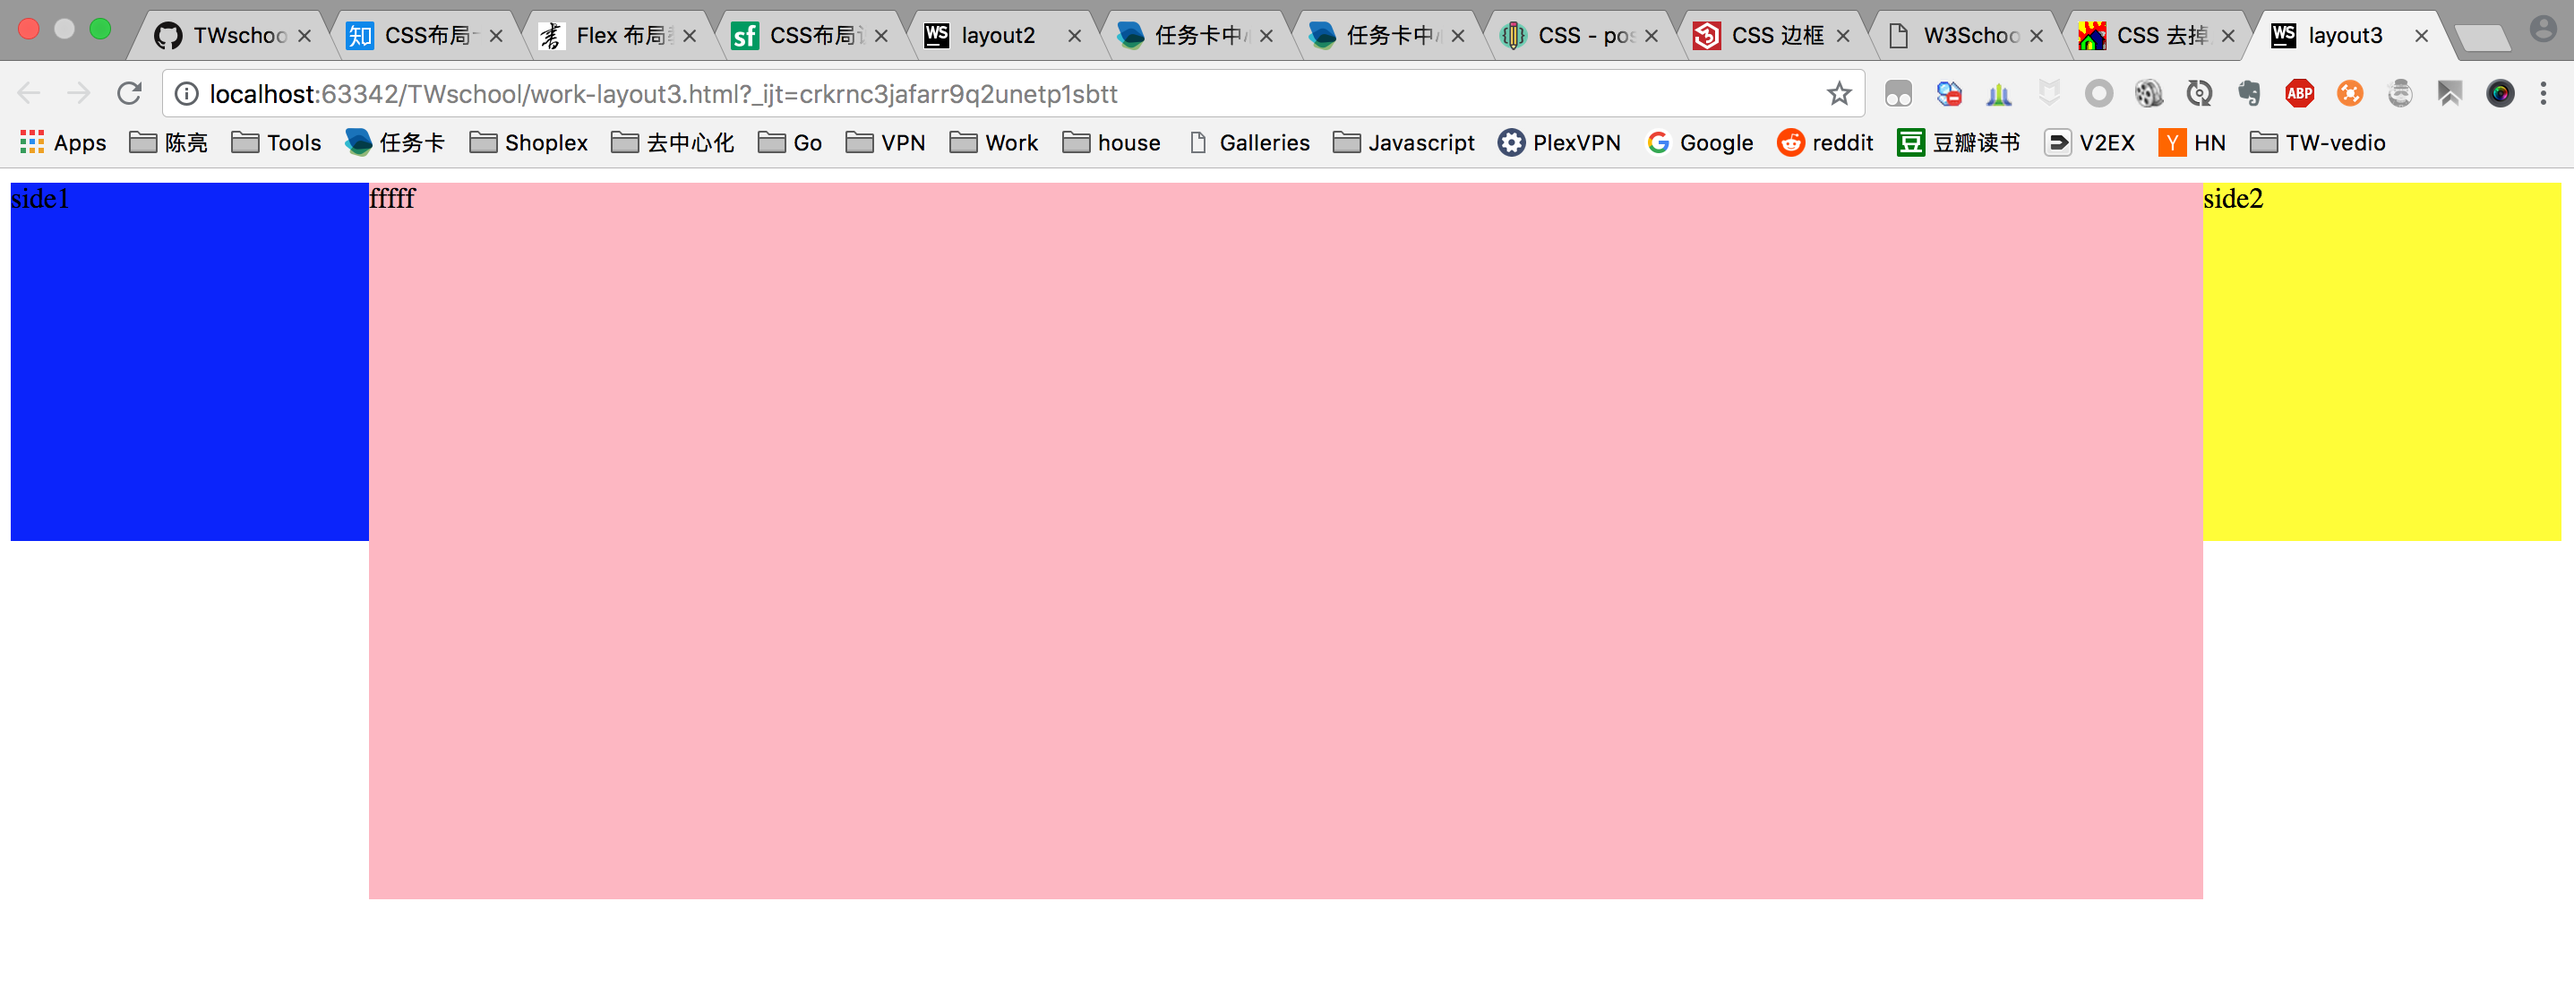
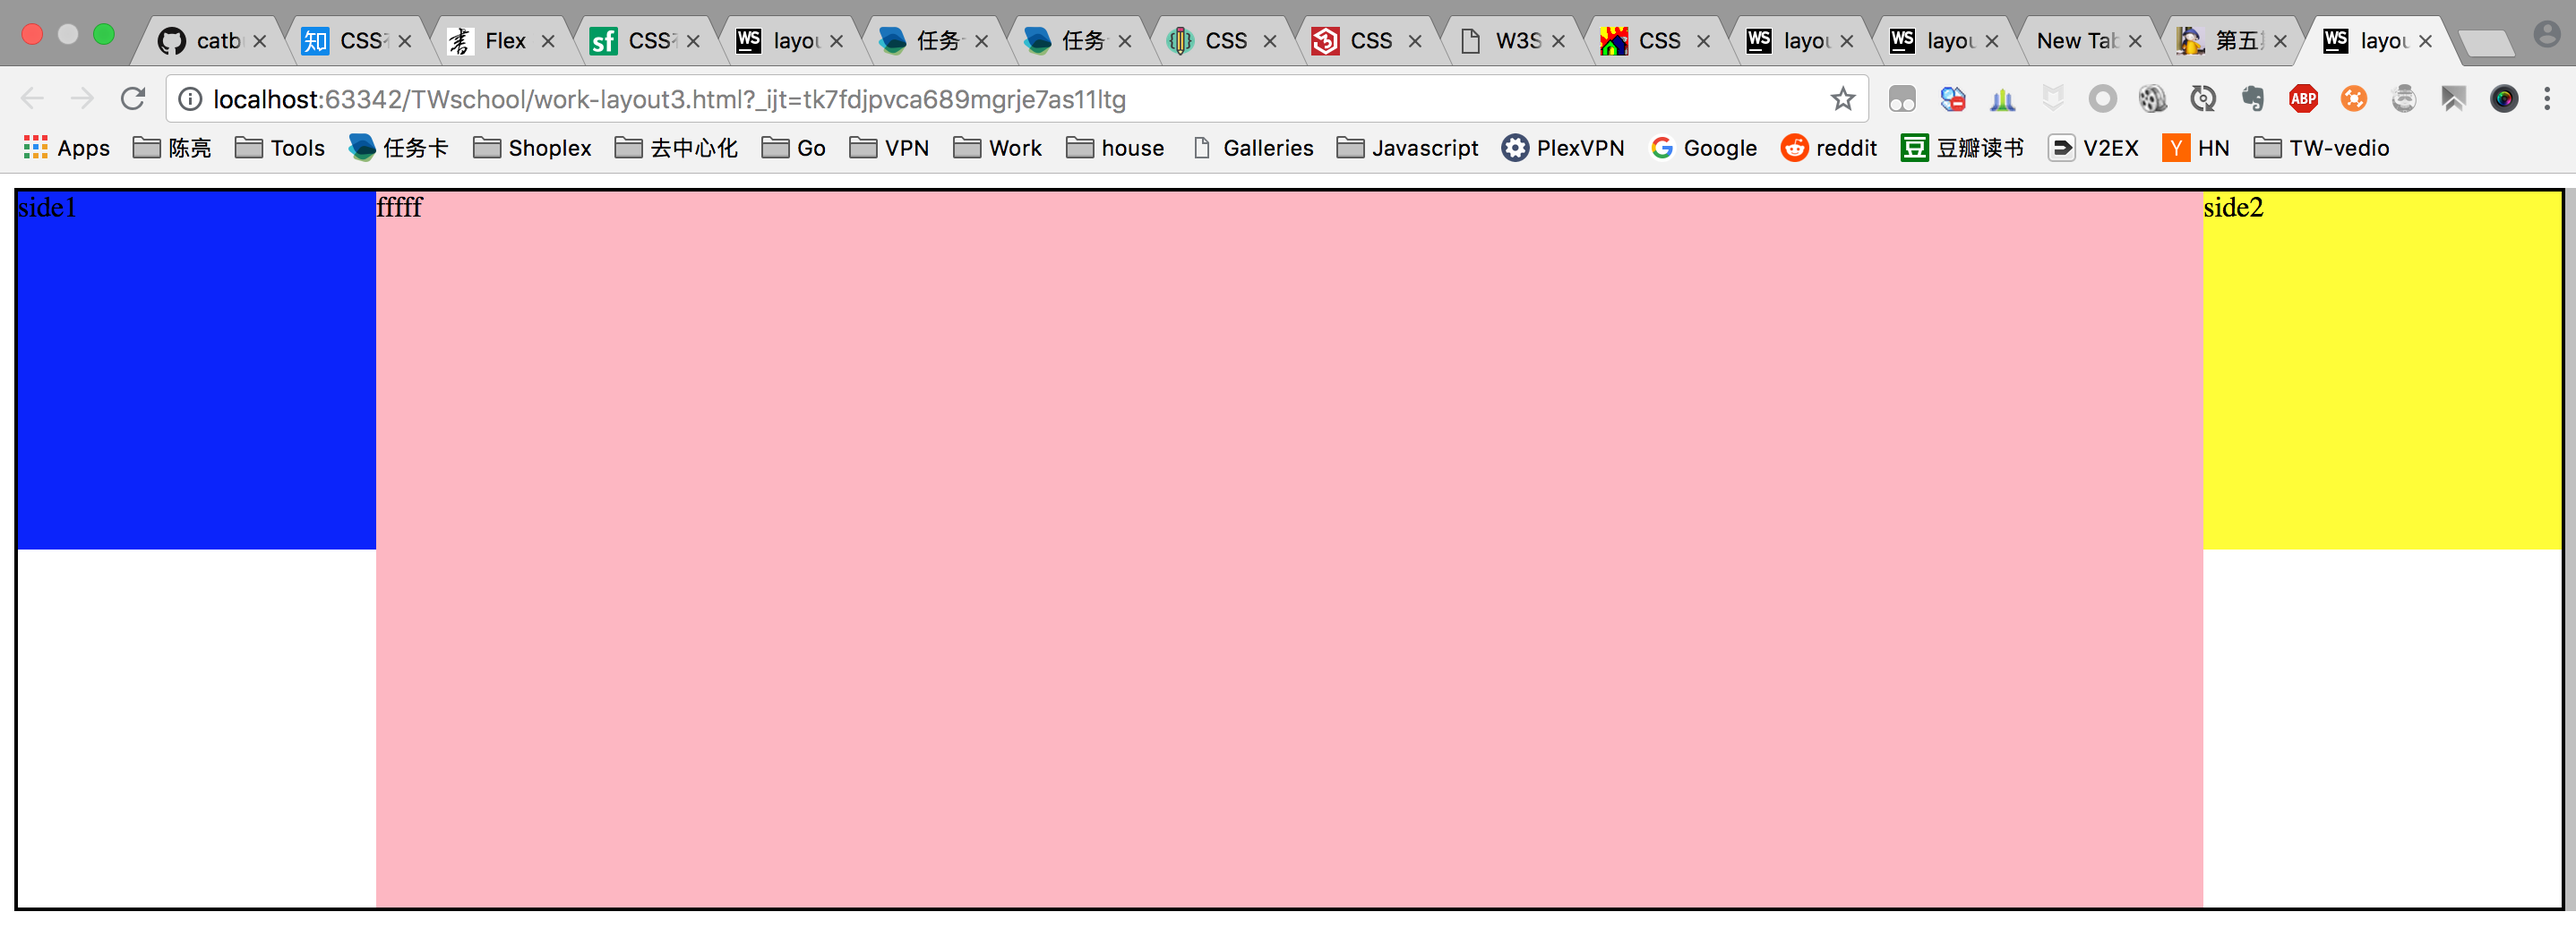
modify work layout

Changed region(s): [[0.0, 0.0, 1.0, 0.9865], [0.0, 0.5241, 0.1548, 0.6166]]

diff --git a/work-layout2.html b/work-layout2.html
@@ -7,22 +7,19 @@
     .container {
       display: flex;
       height: 800px;
-      position: relative;
+      border-top: dashed 2px orange;
+      margin: 10px 10px;
     }
     .right {
-      position: absolute;
       width: 200px;
-      top: 0;
-      right: 0;
       background-color: brown;
       color: white;
       height: 100%;
     }
     .left {
+      flex: 1;
       height: 100%;
-      width: 100%;
-      margin-right: 200px;
-      background-color: orange;
+      background-color: yellow;
     }
   </style>
 </head>

diff --git a/work-layout3.html b/work-layout3.html
@@ -7,6 +7,8 @@
     .container {
       display: flex;
       height: 400px;
+      border: solid 2px black;
+      box-shadow: 10px 0 #8888;
     }
 
     .main {
